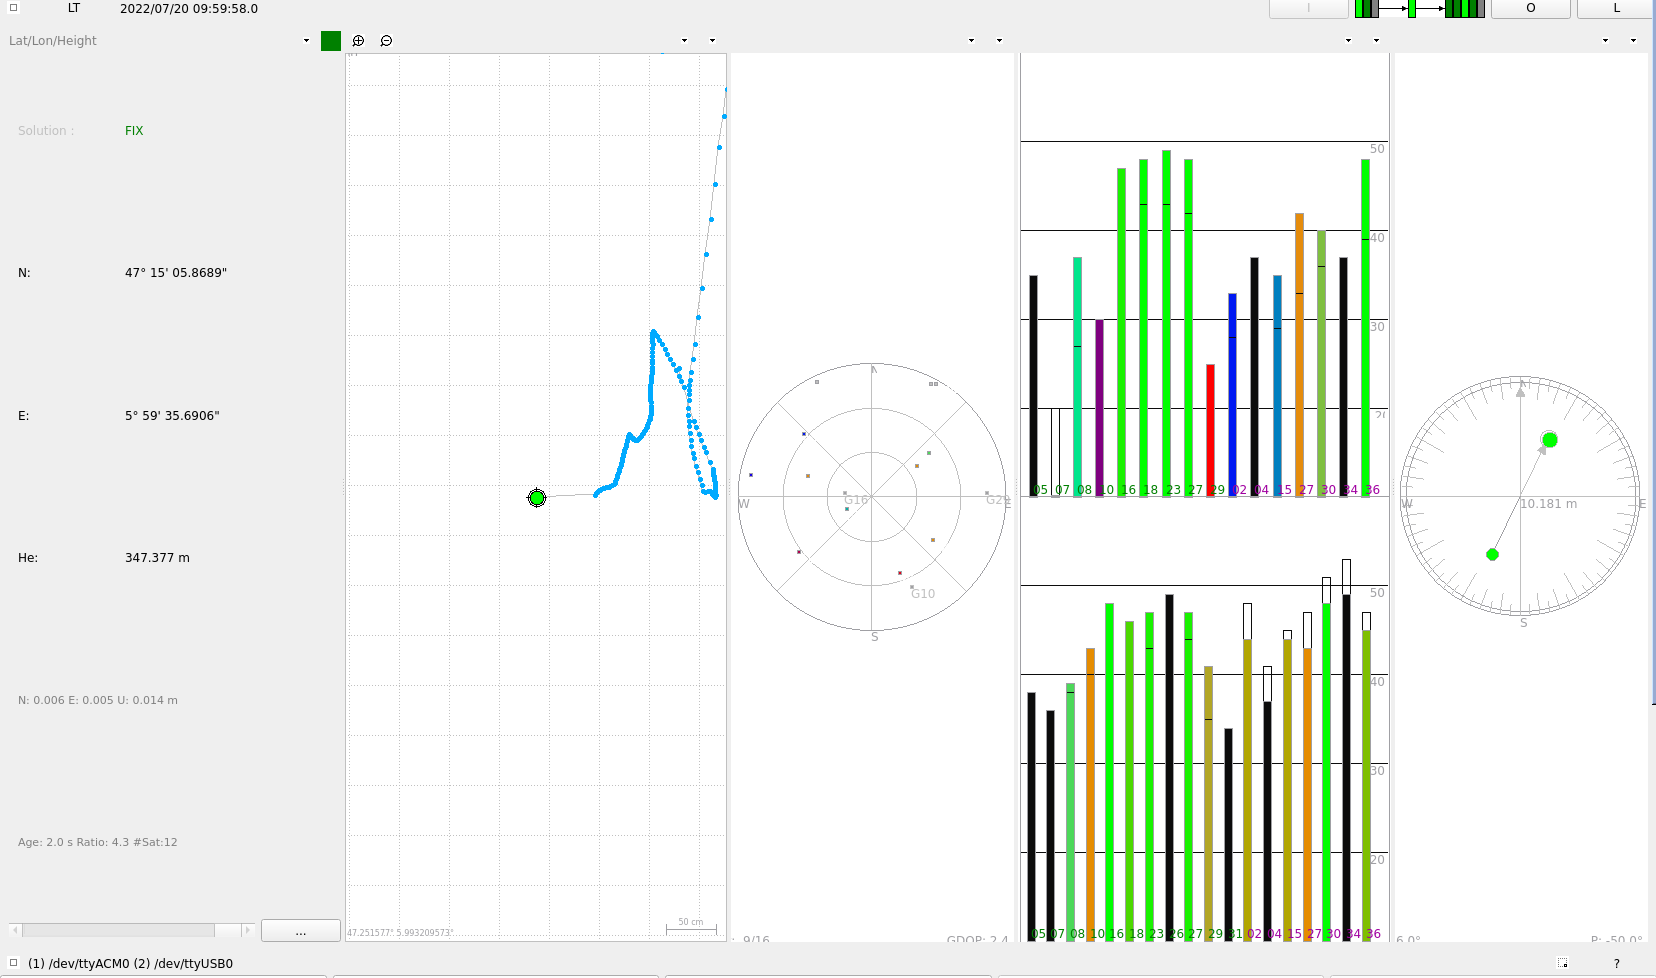
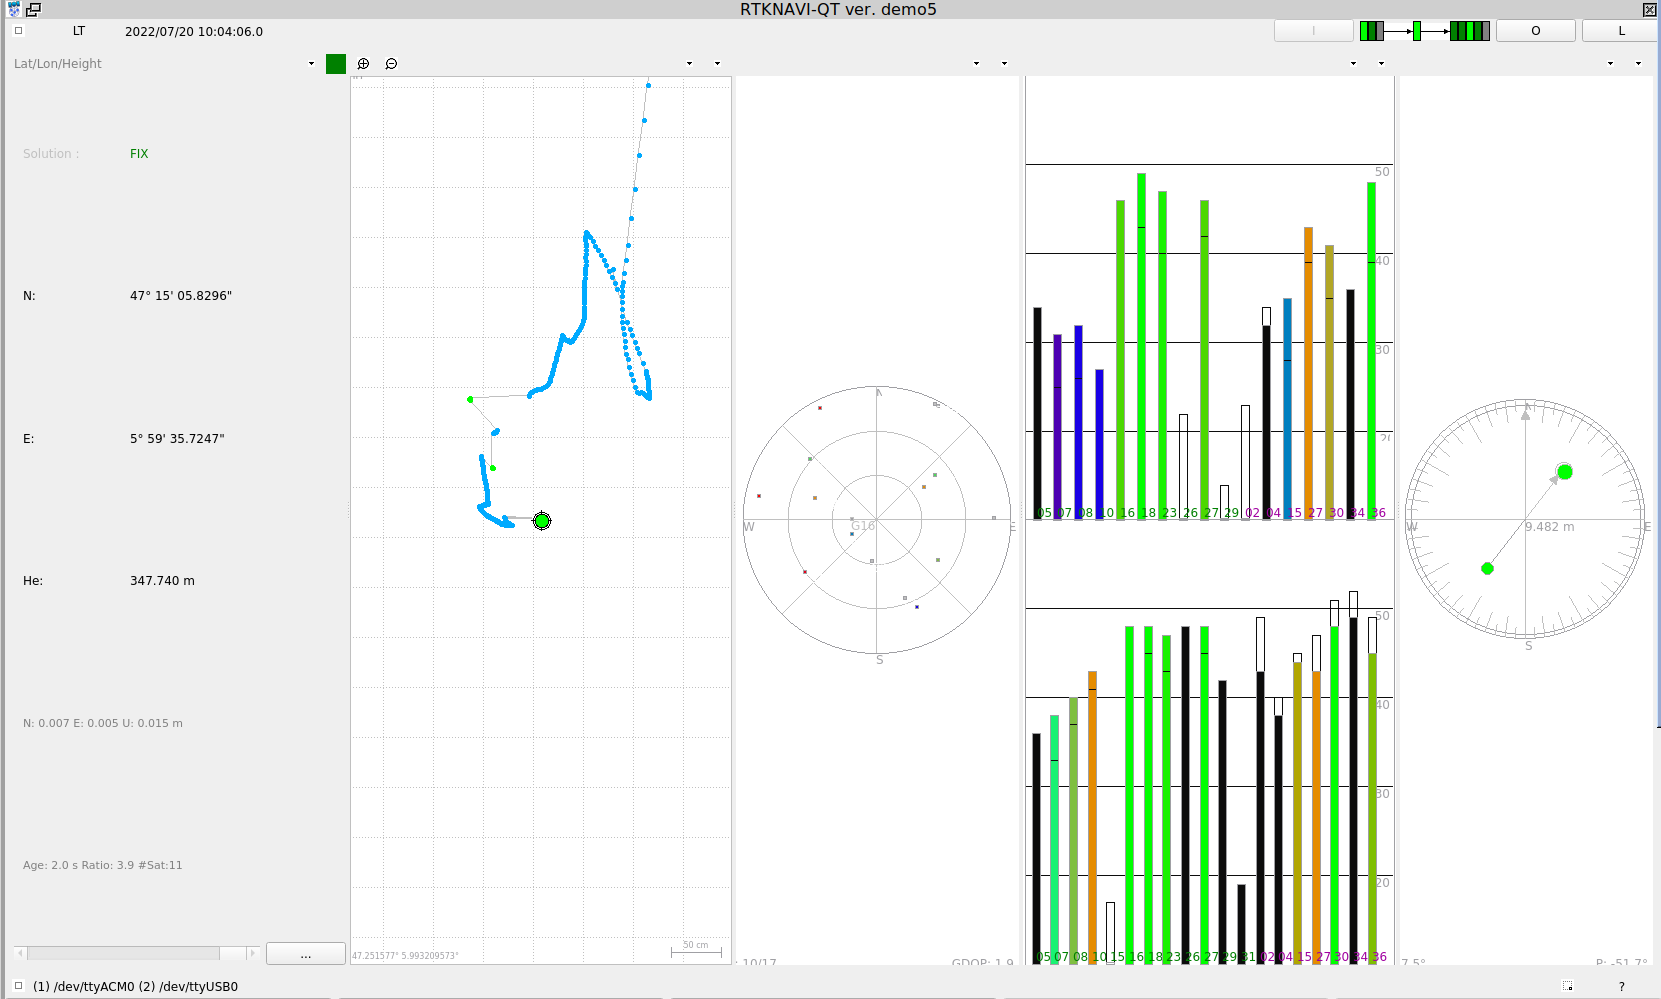
illustrations

diff --git a/lora_GPS/README.md b/lora_GPS/README.md
@@ -36,4 +36,12 @@ ISR stack corruption. The output of the LoRa receiver (base station messages) on
 second UBlox receiver (rover) are fed to ``rtknavi_qt`` set to Kinematic mode, receiving UBX
 messages from ``/dev/ttyUSB0`` and ``/dev/ttyACM0``.
 
+Centimetric fix measurement (green) following the float solution (blue):
+
 <img src="rtknavi_qt.png">
+
+Evolution of the relative position:
+
+<img src="rtknavi_qt_rel0.png">
+<img src="rtknavi_qt_rel1.png">
+<img src="rtknavi_qt_rel2.png">
